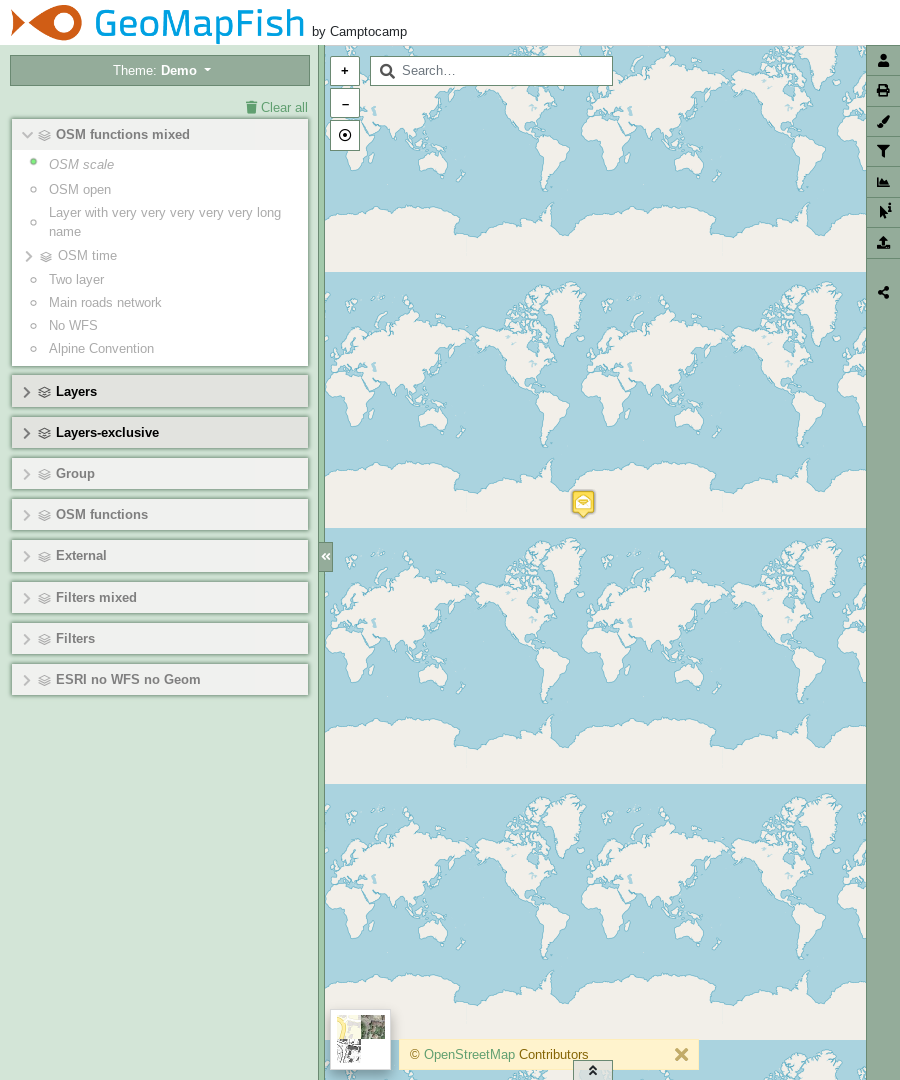
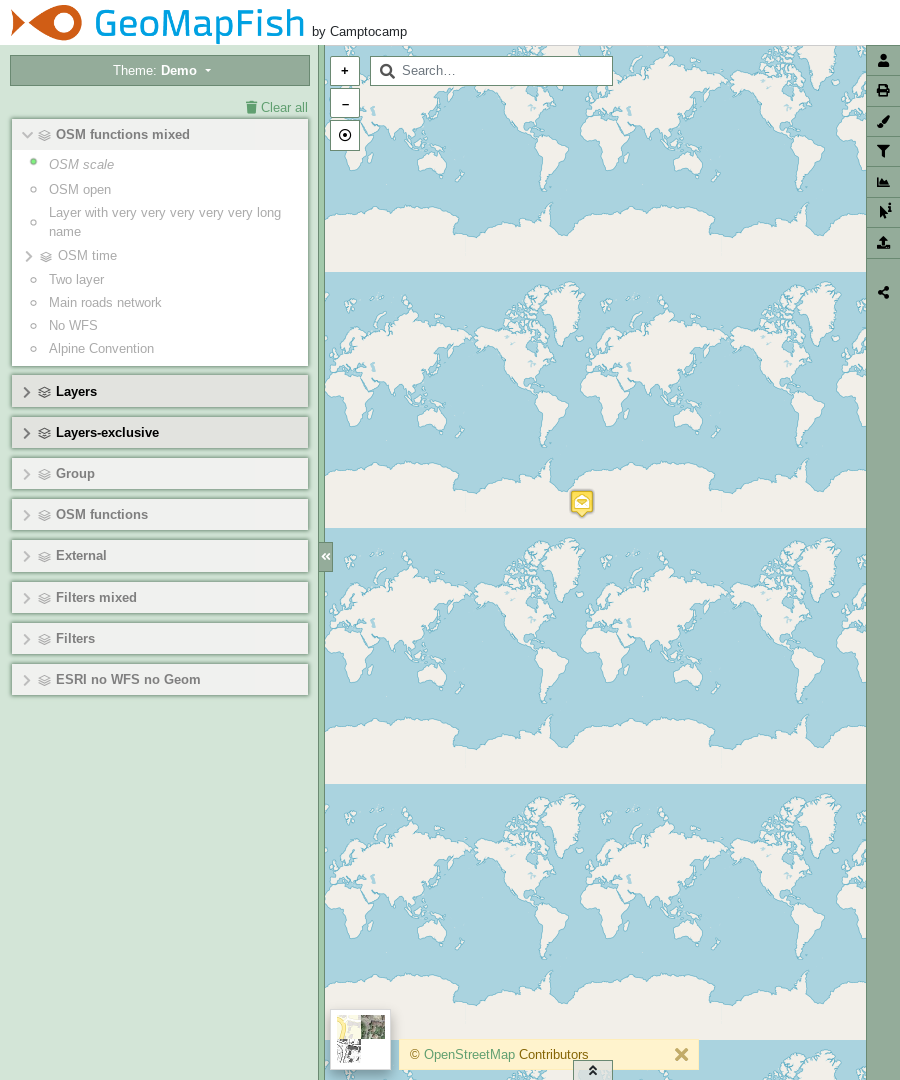
Constraint map pixel on grid pixel

diff --git a/src/controllers/AbstractAppController.js b/src/controllers/AbstractAppController.js
@@ -95,11 +95,27 @@ export function AbstractAppController($scope, $injector, mobile) {
   }
 
   const scaleline = document.getElementById('scaleline');
+
+  const view = new olView(this.options.view);
+  const constraints = view.getConstraints();
+  const centerConstraint = constraints.center;
+  constraints.center = (coord, resolution, size) => {
+    const newCenter = centerConstraint(coord, resolution, size);
+
+    const correctionX = ((newCenter[0] / resolution - size[0] / 2 + 0.5) % 1) - 0.5;
+    const correctionY = ((newCenter[1] / resolution - size[1] / 2 + 0.5) % 1) - 0.5;
+
+    newCenter[0] -= correctionX * resolution;
+    newCenter[1] -= correctionY * resolution;
+
+    return newCenter;
+  };
+
   const map = new olMap(
     Object.assign(
       {
         layers: [],
-        view: new olView(this.options.view),
+        view: view,
         controls: this.options.mapControls || [
           new olControlScaleLine({
             target: scaleline,

diff --git a/api/src/Map.js b/api/src/Map.js
@@ -128,6 +128,20 @@ class Map {
      */
     this.view_ = new View(viewOptions);
 
+    const constraints = this.view_.getConstraints();
+    const centerConstraint = constraints.center;
+    constraints.center = (coord, resolution, size) => {
+      const newCenter = centerConstraint(coord, resolution, size);
+
+      const correctionX = ((newCenter[0] / resolution - size[0] / 2 + 0.5) % 1) - 0.5;
+      const correctionY = ((newCenter[1] / resolution - size[1] / 2 + 0.5) % 1) - 0.5;
+
+      newCenter[0] -= correctionX * resolution;
+      newCenter[1] -= correctionY * resolution;
+
+      return newCenter;
+    };
+
     if (options.center !== undefined) {
       this.view_.setCenter(options.center);
     } else if (constants.extent) {
